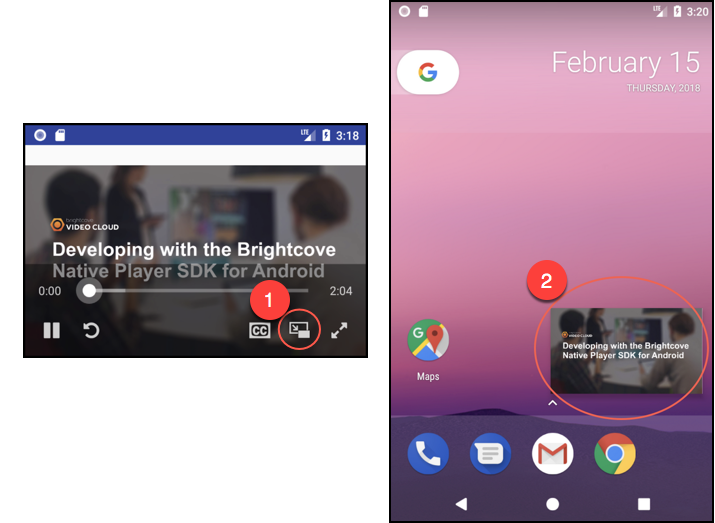
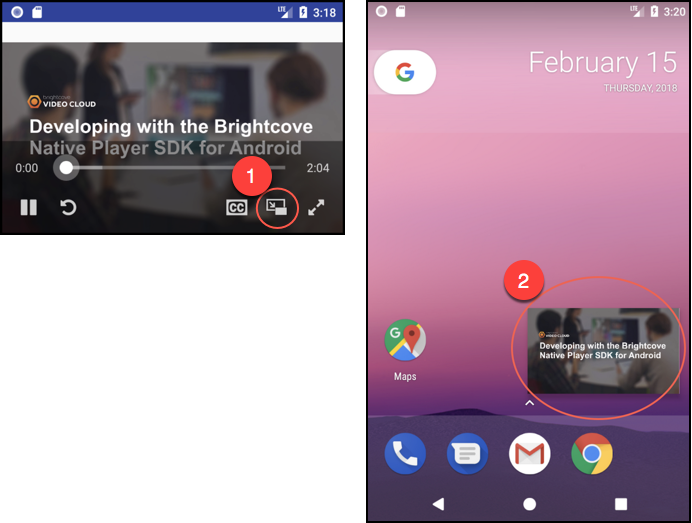
android pip

diff --git a/doc-assets/node/18556-pip-sdks/18556.html b/doc-assets/node/18556-pip-sdks/18556.html
@@ -2,13 +2,11 @@
   <section class="bcls-section">
   <h2 id="Overview">Overview</h2>
   <p>
-    Picture-in-Picture mode allows users to multitask on their devices. With this feature, you can create apps where a small video playback window is pinned to a corner of the screen while the user performs other tasks.
+    Picture-in-picture mode allows users to multitask on their devices. With this feature, you can create apps where a small video playback window is pinned to a corner of the screen while the user performs other tasks.
   </p>
-  <p>
-    Currently, this feature is only available with the Brightcove Native SDK for Android.
-  </p>
+
   <figure class="bcls-figure">
-    <img class="bcls-image--no-border" width="322" src="//learning-services-media.brightcove.com/doc-assets/device-sdks/guides/pip/pip-android.png" alt="Picture-in-picture mode">
+    <img class="bcls-image--no-border" width="600" src="//learning-services-media.brightcove.com/doc-assets/device-sdks/guides/pip/android-steps.png" alt="Picture-in-picture mode">
     <figcaption class="bcls-caption--image">Picture-in-picture mode</figcaption>
   </figure>
 
@@ -17,22 +15,23 @@
 <section class="bcls-section">
 <h2 id="Supported_versions">Supported versions</h2>
 <p>
-Picture-in-Picture mode is supported with the following versions:
+Picture-in-picture mode is supported with the following versions:
 </p>
-<h3>OS version</h3>
+<aside class="bcls-aside bcls-aside--information">Currently, the picture-in-picture feature is only available with the Brightcove Native SDK for Android.</aside>
+<h3>Device OS version</h3>
 <p>
-<strong>Android:</strong> This feature is supported on Android OS Oreo 8.0+ (API level 26+)
+<strong>Android:</strong> Android OS Oreo 8.0+ (API level 26+)
 </p>
 <h3>Native SDK version</h3>
 <p>
-<strong>Android:</strong> This feature is supported when using the Brightcove Native SDK for Android version 6.1.0+
+<strong>Android:</strong> Brightcove Native SDK for Android version 6.1.0+
 </p>
 </section>
 
 <section class="bcls-section">
 <h2 id="Android_implementation">Android implementation</h2>
 <p>
-The following topics will help you get started with the Picture-in-Picture feature:
+The following topics will help you get started with the picture-in-picture feature:
 </p>
 <ul>
 <li>
@@ -42,7 +41,7 @@ The following topics will help you get started with the Picture-in-Picture featu
 <a href="#Using_a_regular_Activity">Using a regular Activity</a>
 </li>
 <li>
-<a href="#Customizing_Picture-in-Picture">Customizing Picture-in-Picture</a>
+<a href="#Customizing_Picture-in-Picture">Customizing picture-in-picture</a>
 </li>
 <li>
 <a href="#Limitations">Limitations</a>
@@ -57,26 +56,36 @@ For more details, see Android's <a href="https://developer.android.com/guide/top
 
 <h3 id="Using_BrightcovePlayer">Using BrightcovePlayer</h3>
 <p>
-The easiest way to start using Picture-in-Picture is to have your activity extend the <code>BrightcovePlayer</code>. In your <strong>AndroidManifest.xml</strong> file, you only need to <a href="https://developer.android.com/guide/topics/ui/picture-in-picture.html#declaring">declare Picture-in-Picture support</a> for that activity by adding the following:
+The easiest way to start using picture-in-picture is to have your activity extend the <code>BrightcovePlayer</code>. To do this, follow these steps:
 </p>
+<ol class="bcls-tasklist">
+<li>
+In your <strong>styles.xml</strong> file, enable the picture-in-picture button by adding the following code:
+<pre class="line-numbers"><code class="language-xml">&lt;style name=&quot;BrightcoveControlBar&quot; parent=&quot;BrightcoveControlBarDefault&quot;&gt;
+ &lt;item name=&quot;brightcove_picture_in_picture&quot;&gt;true&lt;/item&gt;
+&lt;/style&gt;</code></pre>
+</li>
+<li>
+In your <strong>AndroidManifest.xml</strong> file, <a href="https://developer.android.com/guide/topics/ui/picture-in-picture.html#declaring">declare picture-in-picture support</a> for the activity by adding the following:
 <pre class="line-numbers"><code class="language-xml">&lt;activity android:name=&quot;VideoActivity&quot;
 android:resizeableActivity=&quot;true&quot;
 <span class="bcls-highlight">  android:supportsPictureInPicture=&quot;true&quot;
 android:configChanges=
-&quot;screenSize|smallestScreenSize|screenLayout|orientation&quot;</span>
+    &quot;screenSize|smallestScreenSize|screenLayout|orientation&quot;</span>
 ...
 </code></pre>
+<p>
+This is an important step. If you do not declare it, when a user presses the picture-in-picture button in the Brightcove Media Controller, an <code>IllegalStateException</code> will be thrown:
+</p>
+<pre><code class="language-java">java.lang.IllegalStateException: enterPictureInPictureMode: Current activity does not support picture-in-picture</code></pre>
+</li>
+</ol>
 
 <p>
-This is an important step. If you do not declare it, when a user presses the Picture-in-Picture button in the Brightcove Media Controller, an <code>IllegalStateException</code> will be thrown:
-</p>
-<pre class="line-numbers"><code class="language-java">java.lang.IllegalStateException: enterPictureInPictureMode: Current activity does not support picture-in-picture</code></pre>
-
-<p>
-When going into Picture-in-Picture mode, the activity itself is resized, retaining all of the activity components in the Picture-In-Picture window. To avoid this and to provide an easier implementation, the Brightcove video view will go into Full Screen automatically to match the parent layout width and height showing only the video video in the Picture-in-Picture window. Once you leave this mode, Brightcove video view will return to its original state.
+When going into picture-in-picture mode, the activity itself is resized, retaining all of the activity components in the picture-In-picture window. To avoid this and to provide an easier implementation, the Brightcove video view will go into Full Screen automatically to match the parent layout width and height showing only the video video in the picture-in-picture window. Once you leave this mode, Brightcove video view will return to its original state.
 </p>
 <p>
-If you do not want Picture-in-Picture in your app, you can disable the Picture-in-Picture button by adding the following code in your <strong>styles.xml</strong> file:
+If you do not want picture-in-picture in your app, you can disable the picture-in-picture button by adding the following code in your <strong>styles.xml</strong> file:
 </p>
 <pre class="line-numbers"><code class="language-xml">&lt;style name=&quot;BrightcoveControlBar&quot; parent=&quot;BrightcoveControlBarDefault&quot;&gt;
 &lt;item name=&quot;brightcove_picture_in_picture&quot;&gt;false&lt;/item&gt;
@@ -84,15 +93,15 @@ If you do not want Picture-in-Picture in your app, you can disable the Picture-i
 
 <h3 id="Using_a_regular_Activity">Using a regular Activity</h3>
 <p>
-If you are using an activity which does not extend <code>BrightcovePlayer</code>, in addition to declaring support for Picture-in-Picture as mentioned in the previous section, you need to follow a few extra steps:
+If you are using an activity which does not extend <code>BrightcovePlayer</code>, in addition to declaring support for picture-in-picture as mentioned in the previous section, you need to follow a few extra steps:
 </p>
-<ol class="bcls-tasklist">
+<ol class="bcls-tasklist__restart">
 <li>Open the <strong>MainActivity.java</strong> file.</li>
 <li>In the <code>onCreate</code> method of the activity, register the Activity with the Brightcove <code>PictureInPictureManager</code>:
-<pre class="line-numbers"><code class="language-java">PictureInPictureManager.getInstance().registerActivity(Activity, BrightcoveVideoView)</code></pre>
+<pre><code class="language-java">PictureInPictureManager.getInstance().registerActivity(Activity, BrightcoveVideoView)</code></pre>
 </li>
 <li>In the <code>onDestroy</code> method, unregister the Activity:
-<pre class="line-numbers"><code class="language-java">PictureInPictureManager.getInstance().unregisterActivity(Activity)</code></pre>
+<pre><code class="language-java">PictureInPictureManager.getInstance().unregisterActivity(Activity)</code></pre>
 </li>
 <li>Override the <code>onPictureInPictureModeChanged</code> Activity method, and call <code>onPictureInPictureModeChanged()</code> method as shown below:
 <pre class="line-numbers"><code class="language-java">@Override
@@ -111,14 +120,14 @@ PictureInPictureManager.getInstance().onUserLeaveHint();
 </ol>
 
 <p>
-After following these steps, the Picture-in-Picture button will appear in the Brightcove Media Controller automatically. You can also trigger Picture-in-Picture programmatically as follows:
+After following these steps, the picture-in-picture button will appear in the Brightcove Media Controller automatically. You can also trigger picture-in-picture programmatically as follows:
 </p>
-<pre class="line-numbers"><code class="language-java">PictureInPictureManager.getInstance().enterPictureInPictureMode()</code></pre>
+<pre><code class="language-java">PictureInPictureManager.getInstance().enterPictureInPictureMode()</code></pre>
 <aside class="bcls-aside bcls-aside--information">Note that calling this method will throw a <code>PictureInPictureManagerException</code> if an Activity has not been registered.</aside>
 
-<h3 id="Customizing_Picture-in-Picture">Customizing Picture-in-Picture</h3>
+<h3 id="Customizing_picture-in-picture">Customizing picture-in-picture</h3>
 <p>
-You can customize the behavior and appearance of the Picture-in-Picture window through the <code>PictureInPictureManager</code>. For example, you can change the aspect ratio of the window or enable/disable captions for your videos.
+You can customize the behavior and appearance of the picture-in-picture window through the <code>PictureInPictureManager</code>. For example, you can change the aspect ratio of the window or enable/disable captions for your videos.
 </p>
 <p>
 Android Oreo natively provides three parameters that can  be customized:
@@ -126,15 +135,15 @@ Android Oreo natively provides three parameters that can  be customized:
 <ul>
 <li>
 <a href="https://developer.android.com/reference/android/app/PictureInPictureParams.Builder.html#setAspectRatio(android.util.Rational)">aspect ratio</a>
-<pre class="line-numbers"><code class="language-java">setAspectRatio(Rational)</code></pre>
+<pre><code class="language-java">setAspectRatio(Rational)</code></pre>
 </li>
 <li>
 <a href="https://developer.android.com/reference/android/app/PictureInPictureParams.Builder.html#setSourceRectHint(android.graphics.Rect)">source bounds hint</a>
-<pre class="line-numbers"><code class="language-java">setSourceRectHint(Rect)</code></pre>
+<pre><code class="language-java">setSourceRectHint(Rect)</code></pre>
 </li>
 <li>
 <a href="https://developer.android.com/reference/android/app/PictureInPictureParams.Builder.html#setActions(java.util.List%3Candroid.app.RemoteAction%3E)">list of remote actions</a>
-<pre class="line-numbers"><code class="language-java">setUserActions(List&lt;RemoteAction&gt;)</code></pre>
+<pre><code class="language-java">setUserActions(List&lt;RemoteAction&gt;)</code></pre>
 </li>
 </ul>
 
@@ -142,31 +151,31 @@ Android Oreo natively provides three parameters that can  be customized:
 <p>
 Brightcove adds a <code>RemoteAction</code> by default, which handles the <code>Play/Pause</code> video events and sets their respective icons. This means that the default <code>RemoteAction</code> will be added to the list of remote actions you set with the following:
 </p>
-<pre class="line-numbers"><code class="language-java">setUserActions</code></pre>
+<pre><code class="language-java">setUserActions</code></pre>
 <p>
 Keep in mind that you can only set a limited number of actions. To get the <a href="https://developer.android.com/reference/android/app/Activity.html#getMaxNumPictureInPictureActions()">maximum number of actions</a>, call the following:
 </p>
-<pre class="line-numbers"><code class="language-java">Activity.getMaxNumPictureInPictureActions()</code></pre>
+<pre><code class="language-java">Activity.getMaxNumPictureInPictureActions()</code></pre>
 
 <h4>Closed captions</h4>
 <p>
 You can enable/disable Closed Captions when playing a video in Picture-in-Picture mode by calling the following in the <code>inPictureInPictureManager</code>.
 </p>
-<pre class="line-numbers"><code class="language-java">setClosedCaptionsEnabled(boolean)</code></pre>
+<pre><code class="language-java">setClosedCaptionsEnabled(boolean)</code></pre>
 <p>
 Closed Captions are disabled by default in phones but enabled in tablets. To reduce the size of the Closed Captions while playing in Picture-in-Picture mode, call the following to set a value between <code>0</code> and <code>1.0f</code>.
 </p>
-<pre class="line-numbers"><code class="language-java">setClosedCaptionsReductionScaleFactor(float)</code></pre>
+<pre><code class="language-java">setClosedCaptionsReductionScaleFactor(float)</code></pre>
 <p>
-By default, the Closed Captions size in Picture-in-Picture mode is <code>0.5f</code> or 50% the original size. Lastly, to enter Picture-in-Picture mode when the Activity <code>onUserLeaveHint()</code> is called, set the following to <code>true</code>:
+By default, the Closed Captions size in picture-in-picture mode is <code>0.5f</code> or 50% the original size. Lastly, to enter picture-in-picture mode when the Activity <code>onUserLeaveHint()</code> is called, set the following to <code>true</code>:
 </p>
-<pre class="line-numbers"><code class="language-java">setOnUserLeaveEnable(boolean)</code></pre>
+<pre><code class="language-java">setOnUserLeaveEnable(boolean)</code></pre>
 
 <h4>Parameters</h4>
 <p>
-In order to retrieve the current Picture-in-Picture parameters, you can call the following:
+In order to retrieve the current picture-in-picture parameters, you can call the following:
 </p>
-<pre class="line-numbers"><code class="language-java">PictureInPicture.getBrightcovePictureInPictureParams()</code></pre>
+<pre><code class="language-java">PictureInPicture.getBrightcovePictureInPictureParams()</code></pre>
 <p>
 This call returns the <code>BrightcovePictureInPictureParams</code> object, which has the getters for all the parameters previously discussed.
 </p>
@@ -178,7 +187,7 @@ This call returns the <code>BrightcovePictureInPictureParams</code> object, whic
 <h3>Android</h3>
 <ul>
 <li>
-Picture-in-Picture will only work on devices with Android Oreo or higher.
+Picture-in-picture will only work on devices with Android Oreo or higher.
 </li>
 <li>
 It is currently not supported for Android TV.
@@ -197,7 +206,7 @@ Videos with ads are not supported.
 <h3>Android</h3>
 <ul>
 <li>
-We found that Widevine-protected videos playing in Picture-in-Picture mode will turn transparent or black in the Pixel C with Android 8.0. The issue is not reproducible in the same device with Android 8.1.
+We found that Widevine-protected videos playing in picture-in-picture mode will turn transparent or black in the Pixel C with Android 8.0. The issue is not reproducible in the same device with Android 8.1.
 </li>
 </ul>
 </section>
